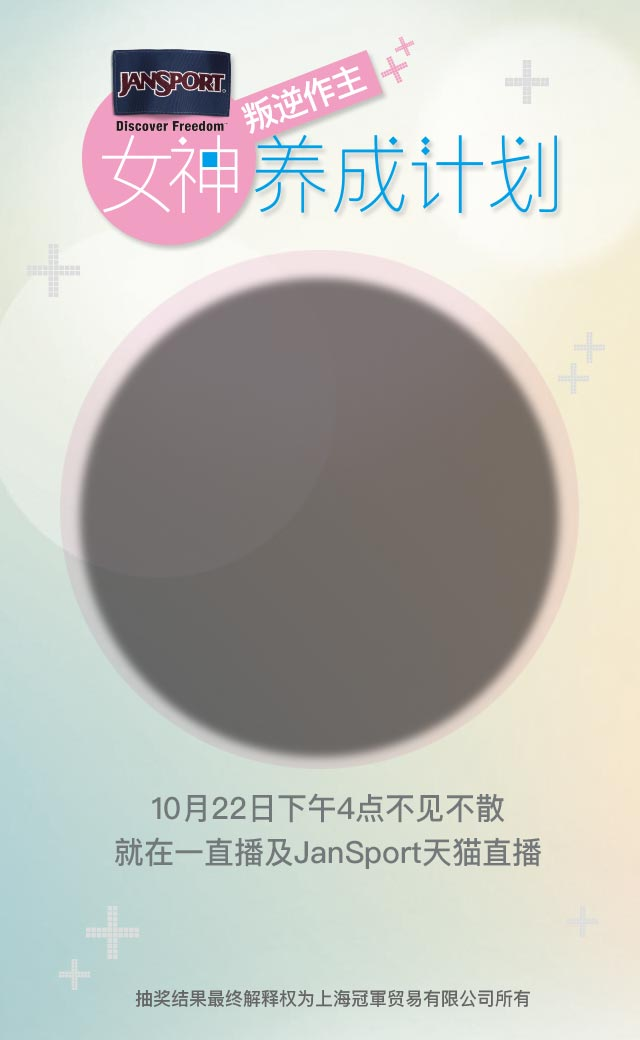
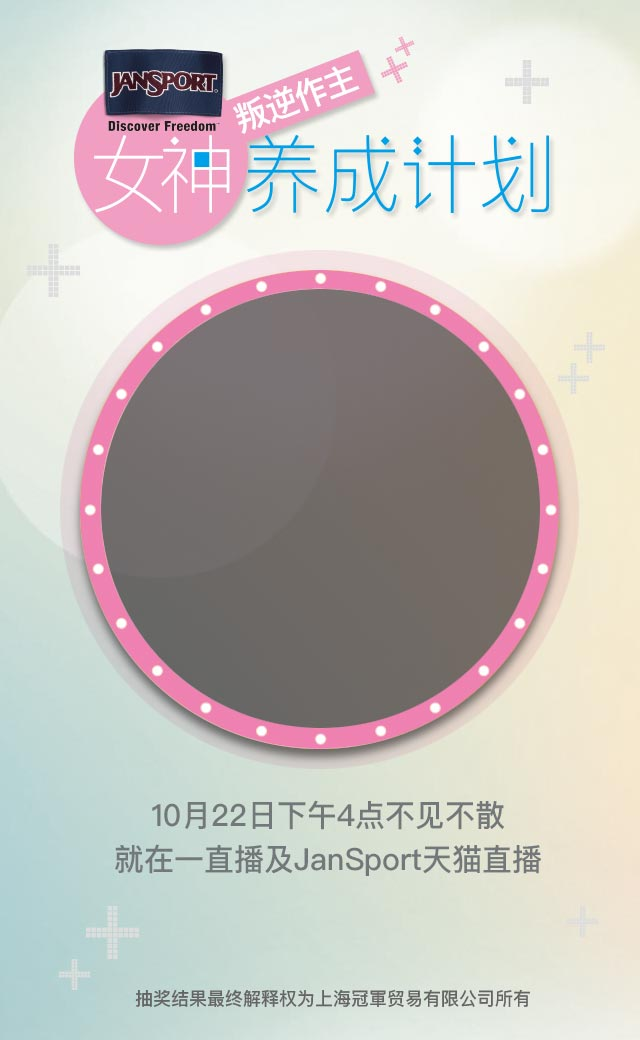
修改了大转盘的样式和排版

Changed region(s): [[0.125, 0.2462, 0.875, 0.8615], [0.0938, 0.0308, 0.875, 0.2462]]

diff --git a/award/default.html b/award/default.html
@@ -6,7 +6,7 @@
     <meta http-equiv="X-UA-Compatible" content="IE=edge">
     <meta name="viewport" content="width=device-width, initial-scale=1.0">
     <title>10月22号天猫JanSport旗舰店party直播,等你哟！！！</title>
-    <link href="style.css" rel="stylesheet" type="text/css">
+    <link href="style.css?v=2" rel="stylesheet" type="text/css">
     <script type="text/javascript" src="js/jquery-1.10.2.js"></script>
     <script type="text/javascript" src="js/awardRotate.js"></script>
     <script type="text/javascript">
@@ -16,17 +16,17 @@
         outsideRadius: 192, //大转盘外圆的半径
         textRadius: 155, //大转盘奖品位置距离圆心的距离
         insideRadius: 68, //大转盘内圆的半径
-        startAngle: 0, //开始角度
+        startAngle: 40, //开始角度
 
         bRotate: false //false:停止;ture:旋转
     };
 
     $(document).ready(function() {
         //动态添加大转盘的奖品与奖品区域背景颜色
-        turnplate.restaraunts = ["10元代金券", "20元代金券", "谢谢参与", "30元代金券", "10元代金券", "20元代金券", "谢谢参与 ", "10月22日party门票", "50元代金券", "60代金券"];
-        turnplate.colors = ["#FFF4D6", "#FFFFFF", "#FFF4D6", "#FFFFFF", "#FFF4D6", "#FFFFFF", "#FFF4D6", "#FFFFFF", "#FFF4D6", "#FFFFFF"];
+        turnplate.restaraunts = ["10元代金券", "20元代金券", "谢谢参与", "30元代金券"];
+        turnplate.colors = ["#f7deed", "#FFFFFF", "#f7deed", "#FFFFFF"];
 
-
+        // 旋转的时间
         var rotateTimeOut = function() {
             $('#wheelcanvas').rotate({
                 angle: 0,
@@ -40,11 +40,11 @@
 
         //旋转转盘 item:奖品位置; txt：提示语;
         var rotateFn = function(item, txt) {
-            var angles = item * (360 / turnplate.restaraunts.length) - (360 / (turnplate.restaraunts.length * 2));
-            if (angles < 270) {
-                angles = 270 - angles;
+            var angles = 45+item * (360 / turnplate.restaraunts.length) - (360 / (turnplate.restaraunts.length * 2));
+            if (angles < 180) {
+                angles = 180 - angles;
             } else {
-                angles = 360 - angles + 270;
+                angles = 360 - angles + 180;
             }
             $('#wheelcanvas').stopRotate();
             $('#wheelcanvas').rotate({
@@ -70,38 +70,38 @@
             var item = rnd(1, turnplate.restaraunts.length);
             //奖品数量等于10,指针落在对应奖品区域的中心角度[252, 216, 180, 144, 108, 72, 36, 360, 324, 288]
             rotateFn(item, turnplate.restaraunts[item - 1]);
-            /* switch (item) {
-            	case 1:
-            		rotateFn(252, turnplate.restaraunts[0]);
-            		break;
-            	case 2:
-            		rotateFn(216, turnplate.restaraunts[1]);
-            		break;
-            	case 3:
-            		rotateFn(180, turnplate.restaraunts[2]);
-            		break;
-            	case 4:
-            		rotateFn(144, turnplate.restaraunts[3]);
-            		break;
-            	case 5:
-            		rotateFn(108, turnplate.restaraunts[4]);
-            		break;
-            	case 6:
-            		rotateFn(72, turnplate.restaraunts[5]);
-            		break;
-            	case 7:
-            		rotateFn(36, turnplate.restaraunts[6]);
-            		break;
-            	case 8:
-            		rotateFn(360, turnplate.restaraunts[7]);
-            		break;
-            	case 9:
-            		rotateFn(324, turnplate.restaraunts[8]);
-            		break;
-            	case 10:
-            		rotateFn(288, turnplate.restaraunts[9]);
-            		break;
-            } */
+            // switch (item) {
+            // 	case 1:
+            // 		rotateFn(95, turnplate.restaraunts[0]);
+            // 		break;
+            // 	case 2:
+            // 		rotateFn(175, turnplate.restaraunts[1]);
+            // 		break;
+            // 	case 3:
+            // 		rotateFn(265, turnplate.restaraunts[2]);
+            // 		break;
+            // 	case 4:
+            // 		rotateFn(355, turnplate.restaraunts[3]);
+            // 		break;
+            	// case 5:
+            	// 	rotateFn(108, turnplate.restaraunts[4]);
+            	// 	break;
+            	// case 6:
+            	// 	rotateFn(72, turnplate.restaraunts[5]);
+            	// 	break;
+            	// case 7:
+            	// 	rotateFn(36, turnplate.restaraunts[6]);
+            	// 	break;
+            	// case 8:
+            	// 	rotateFn(360, turnplate.restaraunts[7]);
+            	// 	break;
+            	// case 9:
+            	// 	rotateFn(324, turnplate.restaraunts[8]);
+            	// 	break;
+            	// case 10:
+            	// 	rotateFn(288, turnplate.restaraunts[9]);
+            	// 	break;
+           // } 
             console.log(item);
         });
     });
@@ -127,7 +127,7 @@
             //在给定矩形内清空一个矩形
             ctx.clearRect(0, 0, 422, 422);
             //strokeStyle 属性设置或返回用于笔触的颜色、渐变或模式  
-            ctx.strokeStyle = "#FFBE04";
+            ctx.strokeStyle = "#ea5f5f";
             //font 属性设置或返回画布上文本内容的当前字体属性
             ctx.font = '16px Microsoft YaHei';
             for (var i = 0; i < turnplate.restaraunts.length; i++) {

diff --git a/award/style.css b/award/style.css
@@ -101,7 +101,7 @@ html,body{
 }
 .banner {
     display: block;
-    width: 79%;
+    width: 76%;
     margin: 0 auto;
     padding-top: 41%;
 }
